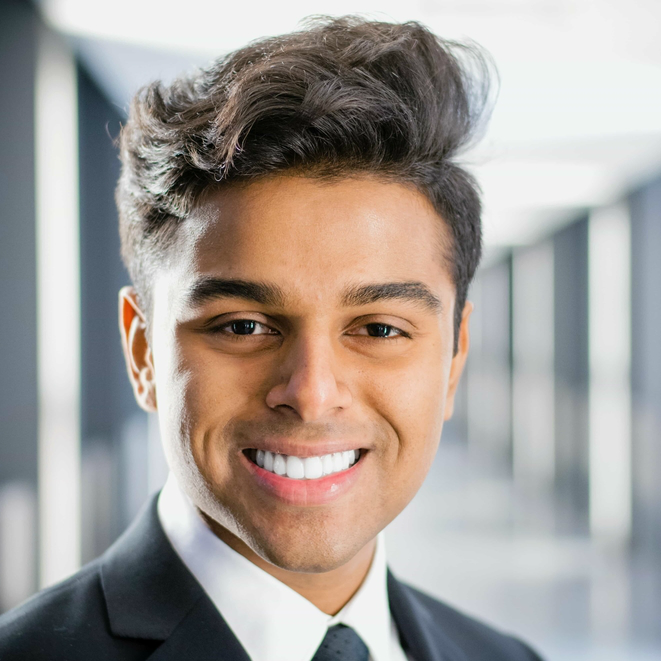
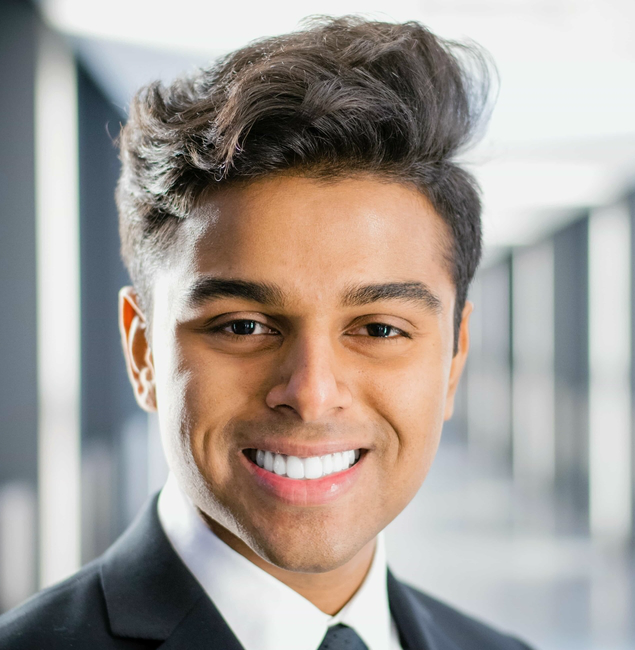
Updated to reflect fulltime experience and new headshot

diff --git a/index.html b/index.html
@@ -85,7 +85,7 @@
 				<div class="col-md-1 col-lg-2"></div>
 				<div class="col-md-10 col-lg-8">
 					<div class="intro">
-						<div class="profile-img"><img src="images/headshot_california.jpg" alt=""></div>
+						<div class="profile-img"><img src="images/headshot_spain.jpeg" alt=""></div>
 						<h2 class="font-purple"><b>Nayef Ahmed</b></h2>
                         <h4><b>ENGINEER &nbsp;|&nbsp; RESEARCHER &nbsp;|&nbsp; DEVELOPER</b></h4>
                         <ul class="information margin-tb-30">
@@ -95,28 +95,28 @@
                                     <b>Facebook Research</b>
 								</a>                
 							</li> -->
+							<li><b>CONTACT : </b>
+                                <a href="mailto:nayef.ahmed211@gmail.com">
+                                    nayef.ahmed211@gmail.com
+                                </a>
+                            </li>
 							<li>
 								<b>EXPERIENCE : </b>
-								Previously @
-								<a href="https://research.fb.com/" target="_blank">
-                                    <b>Facebook Research</b>
-								</a>,
-								<a href="https://level5.lyft.com/" target="_blank">
+								Software Engineer @
+								<a href="https://ai.facebook.com/" target="_blank">
+                                    <b>Meta AI</b>
+								</a>
+								<!-- <a href="https://level5.lyft.com/" target="_blank">
                                     <b>Lyft Level 5</b>
 								</a>, 
 								 <a href="https://azure.microsoft.com/en-us/" target="_blank">
                                     <b>Microsoft</b>
-                                </a>
+                                </a> -->
 							</li>
 							<li>
 								<b>EDUCATION : </b> Mechatronics Engineering @
                                 <a href="https://uwaterloo.ca/mechanical-mechatronics-engineering/" target="_blank">
                                     <b>University of Waterloo</b>
-                                </a>
-                            </li>
-							<li><b>CONTACT : </b>
-                                <a href="mailto:nayef.ahmed211@gmail.com">
-                                    nayef.ahmed211@gmail.com
                                 </a>
                             </li>
                         </ul>
@@ -174,10 +174,6 @@
 								team player with an aptitude for <strong>technology</strong>, an intuition
 								for solving <strong>challenging problems</strong>, and a strong track record in
 								people <strong>leadership</strong>. 
-							</p>
-							<p>
-								I'm currently seeking new grad roles starting <strong>April 2021</strong>. 
-								Feel free to reach out if you know of any cool opportunities or are looking to collaborate!
 							</p>	
 						</div>
 					</div><!-- col-sm-8 -->	
@@ -198,11 +194,25 @@
 						<div class="experience-wrapper">
 
 							<div class="experience margin-b-50">
-								<a href="https://ai.facebook.com/tools/pytorch/" target="_blank">
-									<h4><b>SOFTWARE ENGINEER INTERN</b></h4>
-									<h5 class="font-yellow"><b>FACEBOOK AI RESEARCH</b></h5>
+								<a href="https://github.com/pytorch/text" target="_blank">
+									<h4><b>SOFTWARE ENGINEER</b></h4>
+									<h5 class="font-yellow"><b>META AI</b></h5>
 								</a>
-								<h6 class="margin-t-10">C++, Python, Pytorch, TorchScript &nbsp;|&nbsp; New York, NY (Remote) &nbsp;|&nbsp;  May - Sep 2020</h6>
+								<h6 class="margin-t-10">Python, C++, Pytorch, BigQuery &nbsp;|&nbsp; New York, NY &nbsp;|&nbsp;  Jun 2021 - Present</h6>
+								<ul class="list margin-tb-30">
+									<li>Contributed new components (datasets, transforms, models) as a core maintainer of the torchtext library, engaging with both the open source (OSS) and internal communities</li>
+									<li>Created a multi-modal representation model capable of understanding images, videos, text, and audio by jointly training a vision/text encoder and a transformer-based fusion layer; drove the project end-to-end as the tech lead</li>
+									<li>Managed a summer intern to add a T5 model for text generation tasks; wrote a detailed project plan, provided mentorship, pushed for internal customer adoption, and represented the intern during final evaluations</li>
+									<li>Drove quarterly PyTorch releases to facilitate NLP research and broadcast new features to increase library adoption</li>
+								</ul>
+							</div><!-- experience -->
+
+							<div class="experience margin-b-50">
+								<a href="https://pytorch.org/text/stable/index.html" target="_blank">
+									<h4><b>SOFTWARE ENGINEER INTERN</b></h4>
+									<h5 class="font-yellow"><b>FACEBOOK AI</b></h5>
+								</a>
+								<h6 class="margin-t-10">Python, C++, Pytorch, TorchScript &nbsp;|&nbsp; New York, NY (Remote) &nbsp;|&nbsp;  May - Sep 2020</h6>
 								<ul class="list margin-tb-30">
 									<li>Worked with the AI Platform team to design and implement high-performance NLP building blocks (Tokenizer, Vector, Vocab) for PyTorch</li>
 									<li>Profiled CPU performance of NLP preprocessors on several datasets using Flame Graphs and applying concurrency to decrease load times by over 60x</li>
@@ -217,10 +227,10 @@
 									<h4><b>SOFTWARE ENGINEER INTERN - AUTONOMOUS VEHICLES</b></h4>
 									<h5 class="font-yellow"><b>LYFT LEVEL 5</b></h5>
 								</a>
-								<h6 class="margin-t-10">C++, Python, TensorFlow, OpenCV &nbsp;|&nbsp; Palo Alto, CA &nbsp;|&nbsp;  Jan - Apr 2020</h6>
+								<h6 class="margin-t-10">Python, C++, TensorFlow, OpenCV &nbsp;|&nbsp; Palo Alto, CA &nbsp;|&nbsp;  Jan - Apr 2020</h6>
 								<ul class="list margin-tb-30">
 									<li>Trained new classifier with the Perception team capable of detecting traffic light bulb shapes with 90%+ accuracy on an extremely unbalanced dataset</li>
-									<li>Designed a regression test suite which can provide a binary decision for engineers when deciding whether to release a new model to the vehicle</li>
+									<li>Designed a regression test suite capable of providing a binary decision to engineers when deciding whether to release a new model to the autonomous vehicle flee</li>
 									<li>Created a test creation GUI that gives engineers finer control when selecting relevant obstacles from an image which cannot be regressed on in the future</li>
 								</ul>
 							</div><!-- experience -->
@@ -230,7 +240,7 @@
 									<h4><b>SOFTWARE ENGINEER INTERN</b></h4>
 									<h5 class="font-yellow"><b>FACEBOOK AI RESEARCH</b></h5>
 								</a>
-								<h6 class="margin-t-10">C++, Python, OpenCV, PyTorch &nbsp;|&nbsp; Menlo Park, CA &nbsp;|&nbsp;  May - Aug 2019</h6>
+								<h6 class="margin-t-10">Python, C++, OpenCV, PyTorch &nbsp;|&nbsp; Menlo Park, CA &nbsp;|&nbsp;  May - Aug 2019</h6>
 								<ul class="list margin-tb-30">
 									<li>Worked within the Applied Research Computer Vision team to create a face detection and tracking pipeline running on all Facebook videos in real-time</li>
 									<li>Benchmarked precision and recall of various detection models (Mask R-CNN, DFSD, Viola-Jones) and tracking algorithms on a 600k SOA video dataset</li>
@@ -308,7 +318,19 @@
 					</div><!-- col-sm-4 -->
 					<div class="col-sm-8">
 						<div class="project-wrapper">
-							
+							<div class="project margin-b-50">
+								<a href="https://github.com/Nayef211/FlappyGoose" target="_blank">
+									<h4><b>WRAP</b></h4>
+									<h5 class="font-yellow"><b>WHITEBOARD RECOGNITION AND ANALYSIS PLATFORM</b></h5>
+								</a>
+								<h6 class="margin-t-10">Python, C++, GCP, Firebase, React Native</h6>
+								<ul class="list margin-tb-30">
+									<li>Created a cross-platform mobile app to record and uploaded lectures to the cloud</li>
+									<li>Processed lectures in real-time and applied heuristics, and computer vision to digitize video into formatted lecture notes</li>
+								</ul>
+							</div><!-- project -->
+
+
 							<div class="project margin-b-50">
 								<a href="https://github.com/Nayef211/FlappyGoose" target="_blank">
 									<h4><b>FLAPPY GOOSE</b></h4>
